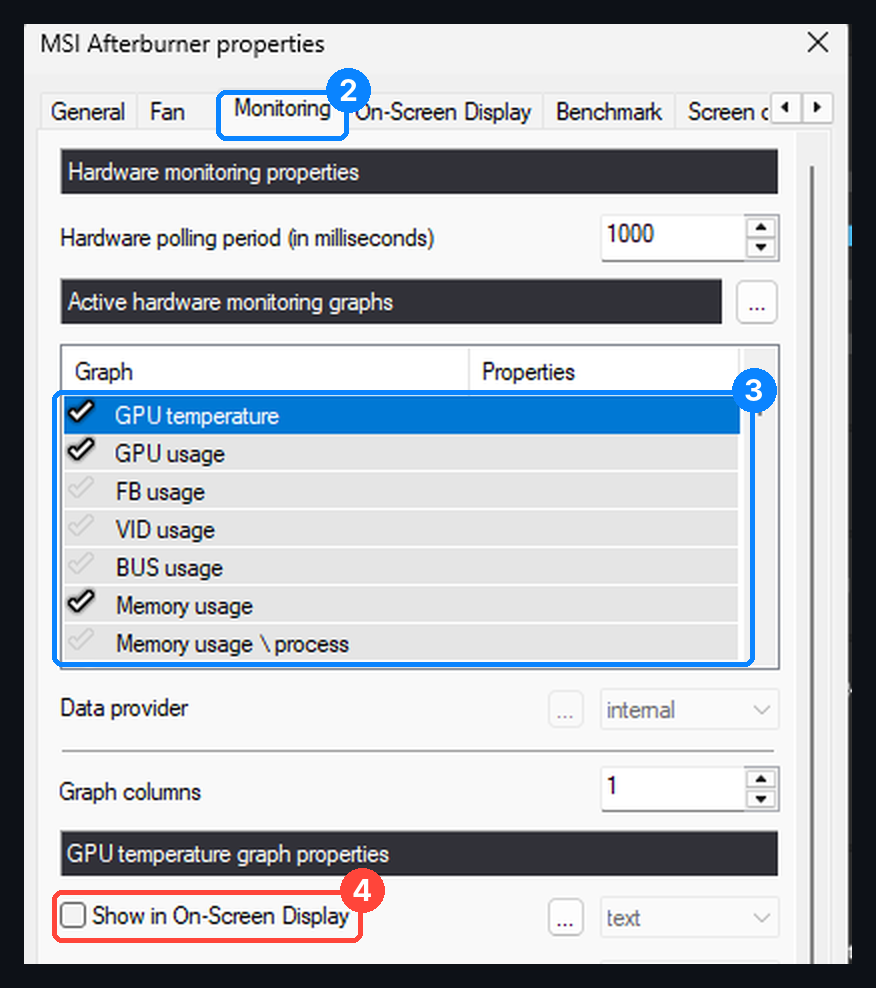
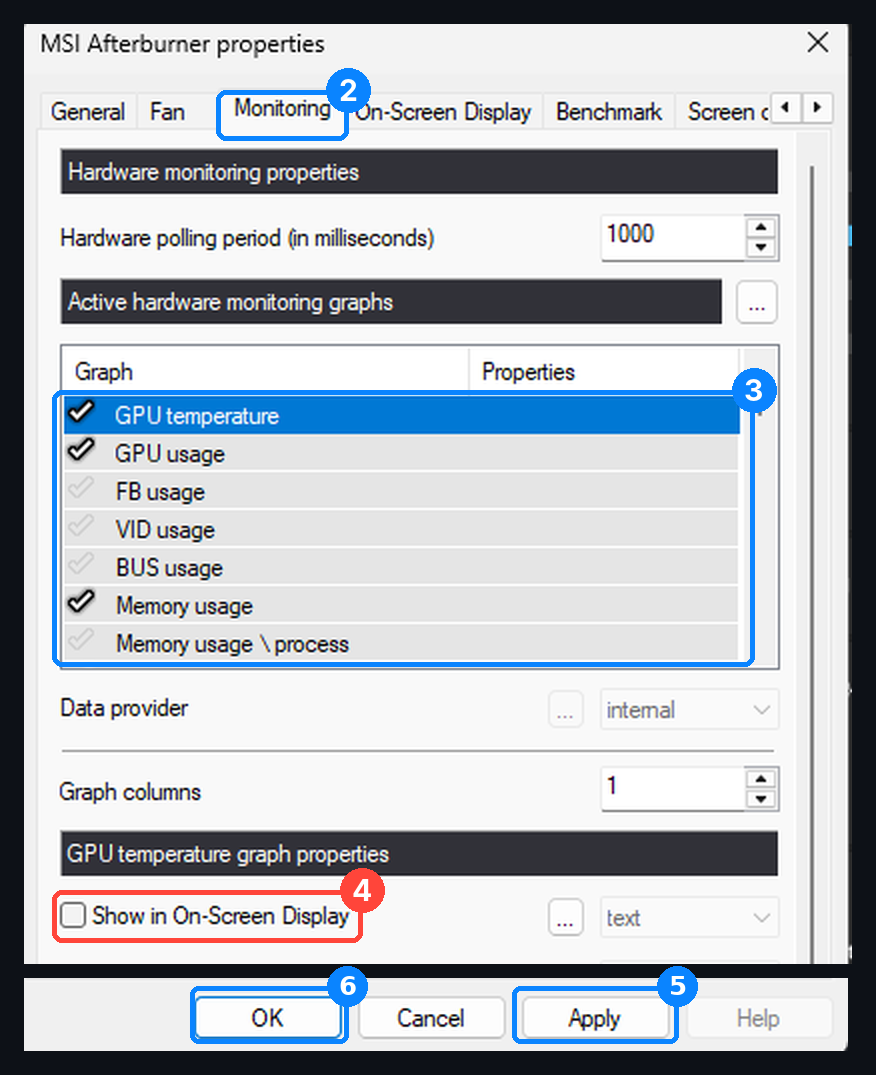
a

diff --git a/README.md b/README.md
@@ -134,10 +134,12 @@ Then **restart RTSS** (close it from the tray and open it again).
 | 2 | Open the **Monitoring** tab |
 | 3 | In the list, **tick** these (scroll down to find the CPU ones): **GPU usage, GPU temperature, Power, CPU usage, CPU temperature, CPU power, CPU clock, Framerate, Framerate 1% Low**<br>🟢 **Essential, also tick:** **Core clock, Framerate 0.1% Low, Power limit, Temp limit** (and **Fan tachometer, Core voltage** for Performance) |
 | 4 | Click each ticked item and make sure **Show in On-Screen Display** is ❌ **unticked**, so Afterburner's own text doesn't stack on top of the overlay |
+| 5 | Click **Apply** |
+| 6 | Click **OK** |
 
-<img src="previews/setup/ab_main.png" width="420" alt="MSI Afterburner: Settings gear"> <img src="previews/setup/ab_monitoring.png" width="420" alt="Afterburner Monitoring tab: tick the graphs, untick Show in On-Screen Display">
+<img src="previews/setup/ab_main.png" width="420" alt="MSI Afterburner: Settings gear"> <img src="previews/setup/ab_monitoring.png" width="420" alt="Afterburner Monitoring tab: tick the graphs, untick Show in On-Screen Display, Apply, OK">
 
-Click **OK** and keep Afterburner running in the background.
+Keep Afterburner running in the background.
 
 <a id="rtss-setup"></a>
 ### 4⃣ Set up RTSS
@@ -173,6 +175,11 @@ Still in **Setup**, check the **General** tab. These are the settings the FPS, 1
 | 11 | **Percentile buffer** | **ring** (keeps the 1% / 0.1% lows updating live) |
 
 <img src="previews/setup/rtss_general.png" width="420" alt="RTSS Setup General tab: framerate averaging 1000, refresh 500, percentile integral, buffer ring">
+
+<a id="benchmark-tip"></a>
+> 💡 **Tip:** still on the **General** tab, scroll down to **Compatibility properties** and tick ✅ **Enable benchmark mode**. Sometimes this is what makes the overlay appear in a game.
+>
+> <img src="previews/setup/rtss_benchmark.png" width="380" alt="RTSS Setup General tab: Compatibility properties, Enable benchmark mode ticked">
 
 Click **OK**.
 
@@ -475,7 +482,7 @@ These come from how RTSS's OverlayEditor works, so every OverlayEditor layout ha
 
 | Problem | Fix |
 |---|---|
-| Overlay doesn't appear in a game | In RTSS click **Setup**, stay on the **General** tab, scroll down to **Compatibility properties** and tick ✅ **Enable benchmark mode**, then click **OK**. Sometimes this makes the overlay appear.<br><img src="previews/setup/rtss_benchmark.png" width="380" alt="RTSS Setup General tab: Compatibility properties, Enable benchmark mode ticked"> |
+| Overlay doesn't appear in a game | Tick **Enable benchmark mode** in RTSS. See the [tip in step 4](#benchmark-tip). |
 | Overlay Editor looks empty | The overlay is placed for a full screen (top centre, or right edge for Side and Performance). **Maximize the Overlay Editor window** to see it. Also turn on **Show On-Screen Display** in the main RTSS window, or nothing shows in game. |
 | CPU clock is blank or N/A | The CPU clock comes from **MSI Afterburner**. Go to **Settings → Monitoring** and tick **CPU clock**, then click Apply. |
 | GPU clock is blank | **Essential:** tick **Core clock** in Afterburner's Monitoring tab. **Volt:** the GPU clock comes from **HWiNFO**. Follow the [HWiNFO setup](#hwinfo-setup-shared-memory). If it's running and still blank, open **Data sources**, select **GPU clock**, click **Setup** and pick your GPU's clock reading. |
@@ -633,7 +640,7 @@ You **don't** need to install the Inter font for this one: it comes inside the p
 
 **2⃣ Turn on the readings in MSI Afterburner**
 
-Open Afterburner → **Settings → Monitoring**. In the list, tick each of these, then press **OK**:
+Open Afterburner → **Settings → Monitoring**. In the list, tick each of these, then press **Apply** and **OK**:
 
 *GPU temperature, GPU usage, Memory usage, Core clock, Memory clock, Power, CPU temperature, CPU clock, CPU power, Framerate, Frametime, Framerate 1% low, Framerate 0.1% low.*
 
